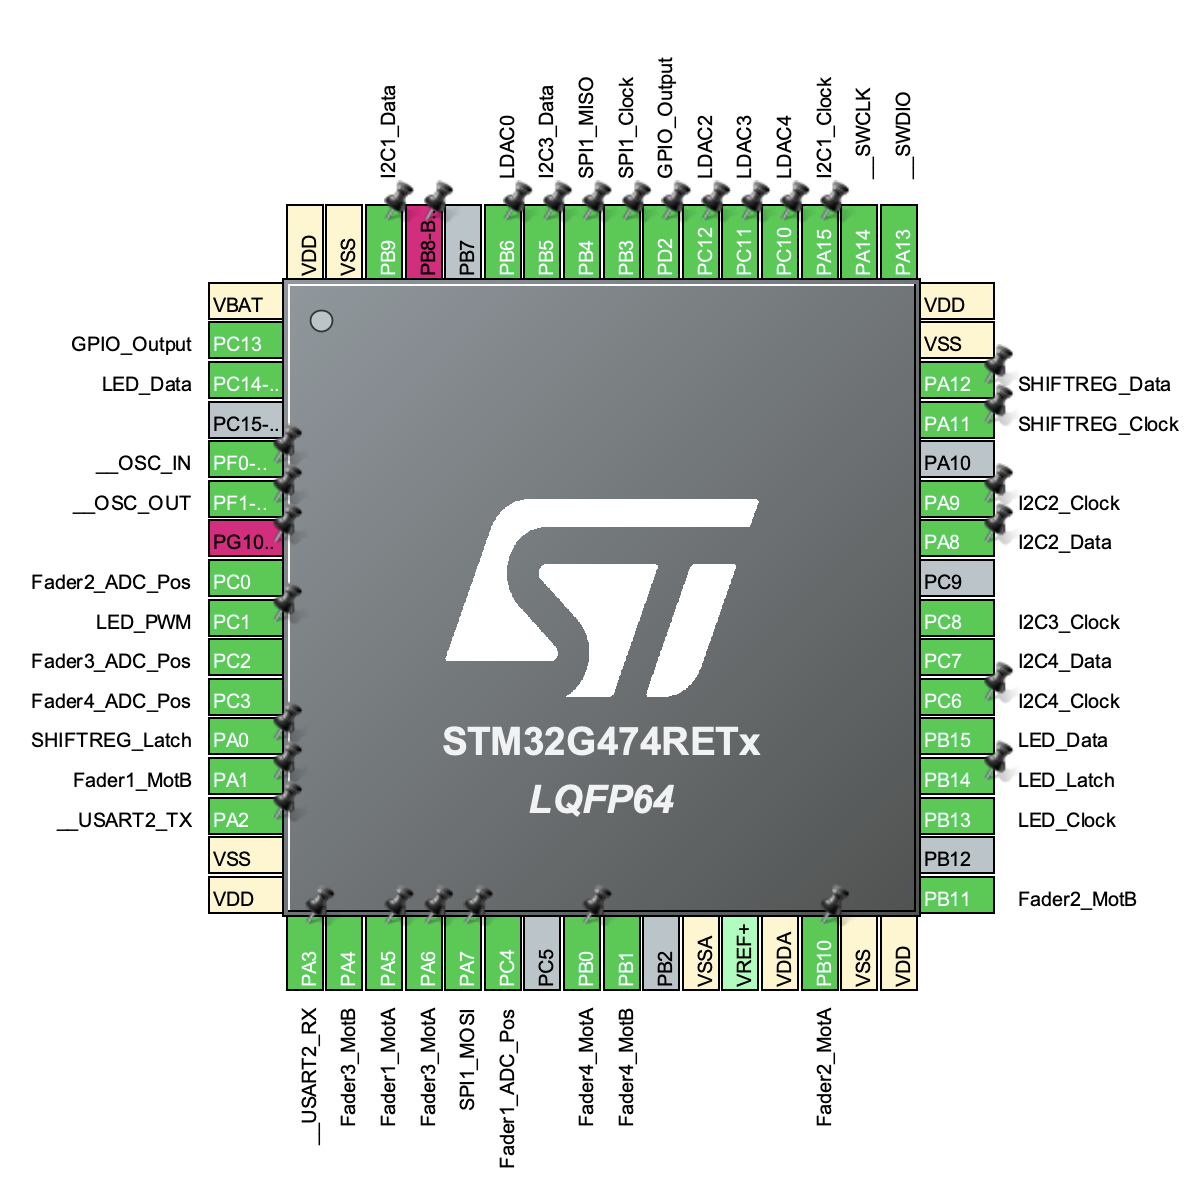
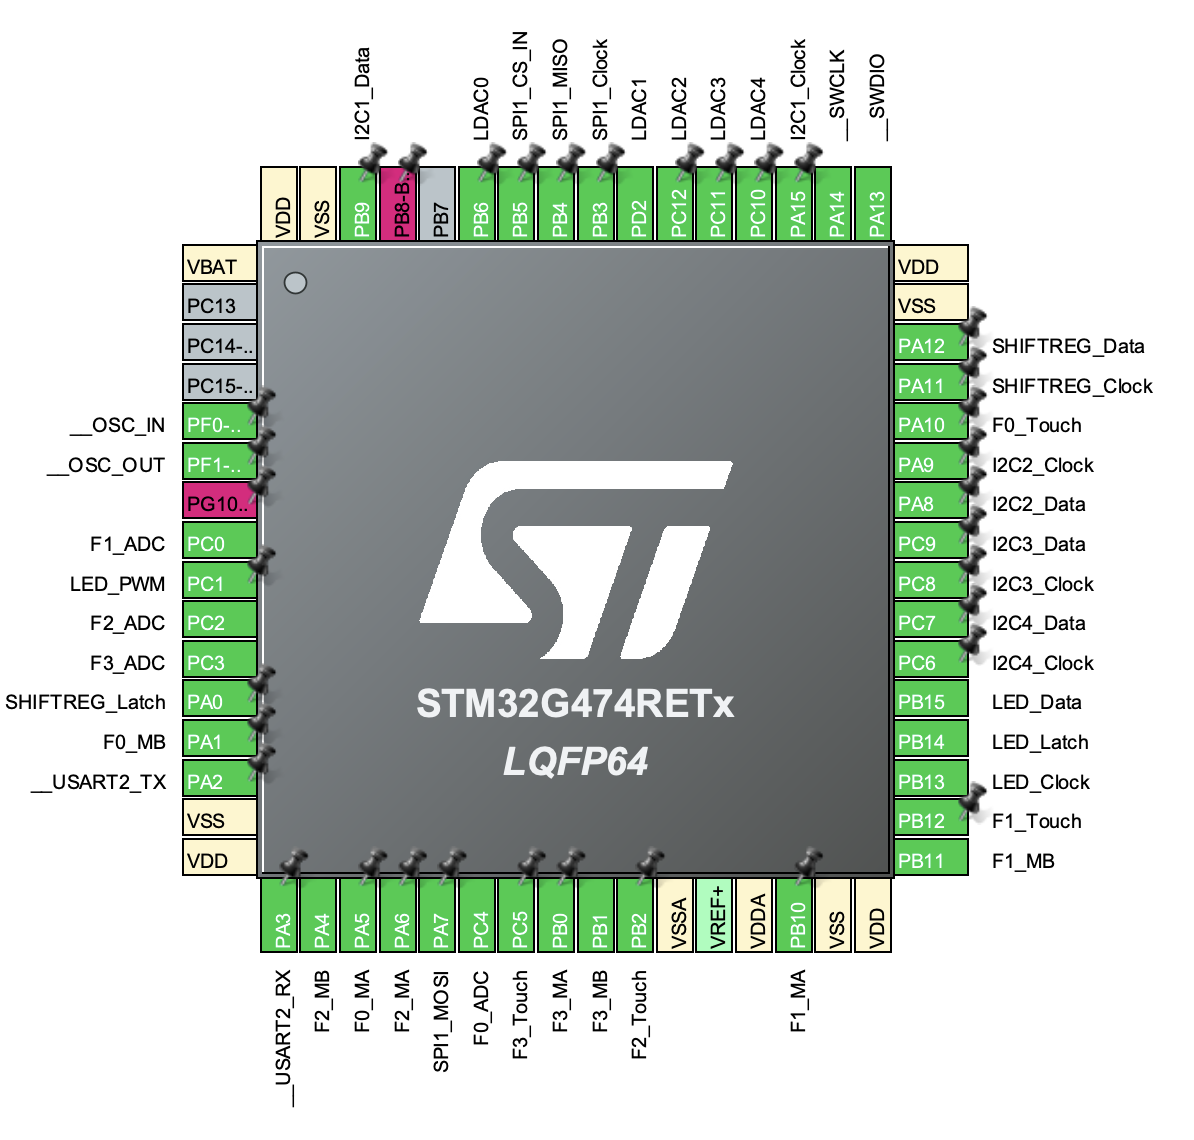
made documentation match reality better, especially the pin pictures on the main page

Changed region(s): [[0.0, 0.0307, 0.9916, 0.9825], [0.3409, 0.3991, 0.6508, 0.7061]]

diff --git a/Firmware_Documentation/mainpage.md b/Firmware_Documentation/mainpage.md
@@ -22,9 +22,8 @@ Master Controller
 - [main.h](@ref Firmware/MasterController/Core/Inc/main.h) - Main header
 
 <br><br><br>
-<img src="diagram2.png" width="58%"><br><br><br>
 <img src="pins.png" width="72%"><br><br><br>
-<img src="pinssr.png" width="72%"><br><br><br>
 <img src="pinout.png" width="60%"><br><br><br>
+<img src="diagram2.png" width="58%"><br><br><br>
+<img src="pinssr.png" width="72%"><br><br><br>
 <img src="fullui.png" width="66%"><br><br><br>
-<img src="diagram1.png" width="73%"><br><br><br>
